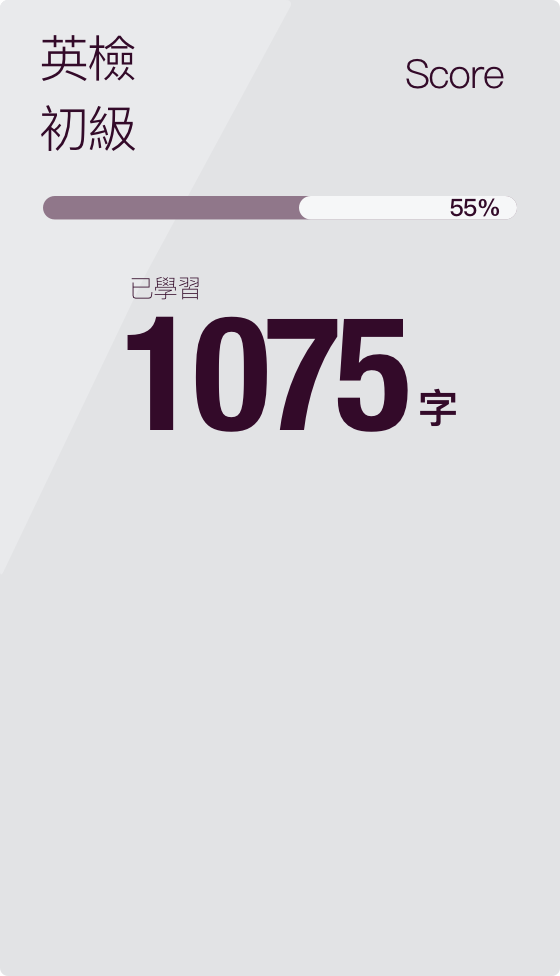
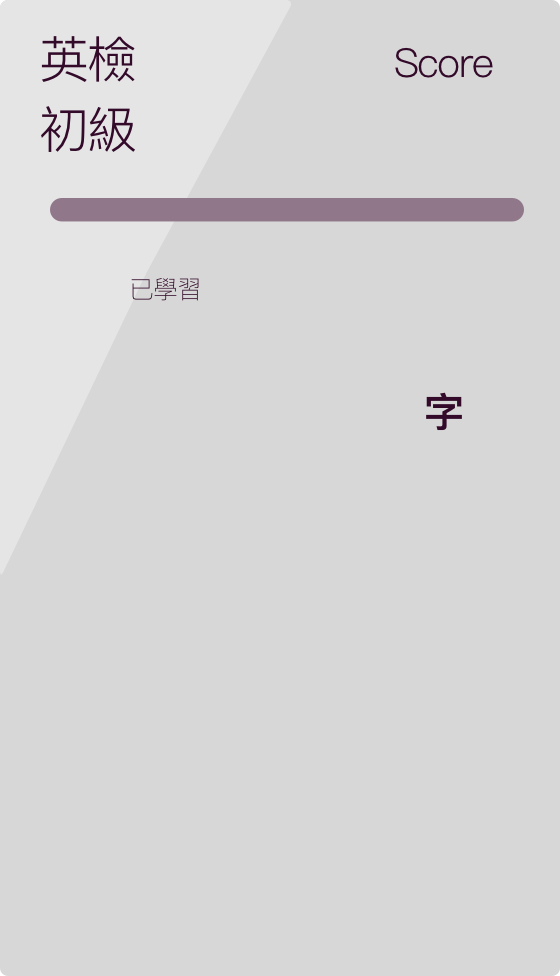
1. layout到gameScene一半

diff --git a/wordDrug/newGameVc/NewGameViewController.swift b/wordDrug/newGameVc/NewGameViewController.swift
@@ -142,6 +142,7 @@ class NewGameViewController: UIViewController, SFSpeechRecognizerDelegate, TagLi
     var thirdEngWordText = String()
     var isParseEnabled = true
     
+    @IBOutlet weak var wordCountLabel: UILabel!
     
     let word1Label = UILabel()
     let word2Label = UILabel()
@@ -153,7 +154,7 @@ class NewGameViewController: UIViewController, SFSpeechRecognizerDelegate, TagLi
     
     var isCelebratingMapPassed = false
     
-    @IBOutlet weak var talkCircle: UIView!
+    //@IBOutlet weak var talkCircle: UIView!
     
     //用來顯示正確答案的變數, 保留標點符號大小寫
     var completeWordsToShow = String()
@@ -161,6 +162,11 @@ class NewGameViewController: UIViewController, SFSpeechRecognizerDelegate, TagLi
     
     //錄音動畫
     var recordingIndicator:NVActivityIndicatorView?
+    
+    
+    let width = UIScreen.main.bounds.width
+    let height = UIScreen.main.bounds.height
+    
     
     //紀錄錯誤發音字
     let relevantWords:[[String:[String]]] = [["and":["n","end","in"]], ["ant":["aunt", "and"]], ["ham":["pam"]], ["bake":["bank"]], ["aim":["m", "am", "game", "i am"]], ["yam":["yeah", "I'm", "game"]], ["cause":["calls", "plus", "cost"]], ["pause":["paul's", "pose", "pass"]], ["be":["b", "bit", "been"]], ["bag":["back"]], ["bin":["pen", "been"]], ["as":["s"]], ["dawn":["don", "done"]], ["bit":["but", "beat"]], ["by":["bye", "buy"]], ["bomb":["mom"]], ["bond":["pond", "and on"]], ["crab":["crap", "cram"]], ["bee":["b", "bg", "be"]], ["employ":["i love ploy", "employee"]], ["sea":["c", "see", "sing"]], ["end":["and"]], ["hen":["hand", "ham"]], ["pet":["pat", "at"]], ["fog":["fuck"]], ["dew":["do you", "due"]], ["lift":["left"]], ["donkey":["thank u"]], ["fill":["feel"]], ["grade":["great"]], ["hill":["he'll"]], ["his":["yes", "he's"]], ["kid":["can't"]], ["lid":["lead", "let"]], ["igh1":["hi"]], ["miss":["mess", "bass"]], ["sir":["siri"]], ["ill":["io", "yell"]], ["lip":["that", "nap", "leap"]], ["leg":["lag"]], ["kneepad":["hey pat", "we pack"]], ["ring":["rain"]], ["ink":["inc."]], ["pin":["pain"]], ["did":["dead", "dig"]], ["dig":["dick"]], ["rhino":["right now"]], ["mind":["mine"]], ["bone":["born"]], ["tone":["porn"]], ["omit":["almonds", "almond"]], ["of":["off"]], ["offspring":["of spring"]], ["old":["owed"]], ["bow":["wow"]], ["sin":["send", "seen"]], ["red":["read", "rat"]], ["pig":["pick"]], ["very":["barry"]], ["carry":["carrie"]], ["skill":["scale"]], ["tick":["take"]], ["tin":["10", "ten", "teen"]], ["fifty":["50"]], ["sixty":["60"]], ["to":["2"]], ["rub":["rob"]], ["bun":["bon"]], ["gun":["gone"]], ["cup":["prop"]], ["dumb":["dom"]], ["gain":["can", "game", "dan"]], ["nut":["not", "nuts", "that's"]], ["surf":["sorry", "serve"]], ["sad":["said"]], ["accept":["a sept", "except"]], ["principle":["principal"]], ["atom":["adam", "at tom", "at ten", "at them"]], ["far":["fart"]], ["seesaw":["cecil"]], ["mat":["matt"]], ["may":["mei", "main"]], ["gram":["graham"]], ["pan":["pam"]], ["behave":["behalf", "we have"]], ["mass":["mas"]], ["haunted":["hunted"]], ["lack":["leg"]], ["niece":["nice"]], ["column":["caller"]], ["colleague":["cardi"]], ["wet":["what"]], ["media":["pedia"]], ["done":["don"]], ["dry":["trying"]], ["bean":["being", "been"]], ["tea":["t", "tee"]], ["pen":["pam", "pan"]], ["lend":["land"]], ["sight":["site"]], ["hit":["hits"]], ["goal":["call"]], ["loaf":["love"]], ["sing":["seen"]], ["thing":["fin"]], ["will":["we'll"]], ["till":["teal"]], ["mill":["mail", "male", "meal"]], ["wing":["wayne"]], ["among":["a man"]], ["iron":["i am"]], ["neon":["young"]], ["ours":["hours"]], ["pot":["part"]], ["born":["porn"]], ["door":["don't worry", "dori"]], ["cow":["cal"]], ["town":["towel"]], ["prize":["price"]], ["marry":["merry"]], ["both":["bath"]], ["sun":["son"]], ["hide":["height", "hi"]], ["due":["do you"]], ["June":["john"]], ["rule":["drool"]], ["rude":["dude"]], ["gesture":["chester", "just trailer"]], ["eighty":["80"]], ["thumb":["foam"]], ["ketchup":["catch up"]], ["main":["man", "mane"]], ["band":["and"]], ["ladder":["leather"]], ["daddy":["that he"]], ["whale":["well", "we'll"]], ["burst":["first"]], ["lamb":["let", "land"]], ["climate":["climb at"]], ["piece":["peace"]], ["place":["please"]], ["rat":["got", "rhett"]], ["battle":["that'll"]], ["drawer":["droller"]], ["autumn":["i'll touch", "alton"]], ["way":["we"]], ["liter":["litter"]], ["ten":["pam", "can", "tin", "10"]], ["tent":["pant"]], ["deer":["beer", "dear"]], ["grey":["gray"]], ["obey":["i'll be"]], ["bucket":["buckets"]], ["tempo":["temple"]], ["nose":["knows"]], ["role":["roll", "raw"]], ["hire":["higher"]], ["thirty":["30"]], ["bowling":["morning"]], ["ceiling":["sitting"]], ["fork":["fort"]], ["form":["foreign"]], ["more":["morning"]], ["fool":["for"]], ["aloud":["allowed"]], ["parrot":["pirate"]], ["ninety":["nighty", "90"]], ["quiz":["chris"]], ["path":["pat"]], ["than":["then", "van"]], ["shoe":["she'll", "sure"]], ["gate":["kate"]], ["hate":["eight"]], ["hang":["hannah"]], ["sand":["send"]], ["admire":["at the meyer", "edmeyer"]], ["advise":["advice"]], ["whole":["call"]], ["whose":["who's", "who is"]], ["wheel":["we'll", "we"]], ["tall":["call", "paul"]], ["pair":["prayer"]], ["ease":["is"]], ["crayon":["korean"]], ["dock":["talk"]], ["faucet":["fossett"]], ["itself":["it's self"]], ["race":["raise"]], ["knight":["night"]], ["rose":["roast"]], ["toad":["told"]], ["fond":["found"]], ["monk":["monarch", "month"]], ["noon":["no"]], ["move":["movie"]], ["foul":["fall"]], ["bounce":["taos"]], ["male":["mail"]], ["shut":["shot"]], ["bathe":["beef"]], ["badminton":["that minton"]], ["naughty":["knotty"]], ["granddaughter":["when dollar"]], ["twice":["pies"]], ["sail":["sale"]], ["tail":["pale"]], ["star":["*", "start"]], ["dial":["i'll", "kyle"]], ["thin":["then"]], ["maximum":["messy mom"]], ["knee":["me"]], ["owner":["almost there", "on their"]], ["sell":["sale", "cell"]], ["leaf":["leave"]], ["flour":["flower"]], ["root":["route"]], ["bowl":["ball"]], ["grow":["grill", "roll"]], ["railroad":["rail road"]], ["raincoat":["wrinkled"]], ["mole":["ball", "more"]], ["hose":["house", "holes"]], ["word":["where"]], ["wedding":["waiting"]], ["thirtieth":["30th"]], ["twirl":["pearl"]], ["ego":["eagle"]], ["name":["ma'am"]], ["ninth":["knife"]], ["shall":["sure", "scholl"]], ["six":["6"]], ["curtain":["carton"]], ["lead":["bead"]], ["angel":["angil"]], ["need":["me"]], ["seem":["seeing", "same"]], ["pound":["pilot", "now"]], ["forty":["40"]], ["room":["ram"]], ["soon":["so in", "sean"]], ["ride":["right"]], ["rise":["lies", "rice"]], ["low":["no", "loel"]], ["own":["on", "all"]], ["know":["no"]], ["ruler":["reuther"]], ["their":["there"]], ["pale":["pio"]], ["race":["raise"]], ["plain":["plane"]], ["raise":["race"]], ["buy":["bye"]], ["garden":["pardon"]], ["kilogram":["program"]], ["necklace":["nicolas"]], ["seek":["see"]], ["tool":["cool", "pool"]], ["wood":["would"]], ["woods":["what's"]], ["gym":["jane", "james"]], ["north":["no wife"]], ["row":["roll", "raw"]], ["fence":["sence"]], ["deaf":["-", "def"]], ["tangerine":["thank you rain"]], ["beam":["boehm"]], ["cent":["sent"]], ["thick":["fake"]], ["thief":["fief"]], ["safe":["save"]], ["shine":["shall i"]], ["childish":["ciao dish"]], ["guard":["god"]], ["wife":["weiss"]], ["sting":["stain"]], ["yourselves":["your selves"]], ["invent":["event"]], ["since":["sence", "scenes"]], ["sincere":["since year"]], ["tear":["cheer"]], ["boost":["post"]], ["goose":["close"]], ["train":["chain", "friend"]], ["waist":["waste"]], ["stair":["stare"]], ["twelfth":["12th"]], ["cellphone":["cell phone"]], ["many":["manny"]], ["planner":["planer"]], ["passenger":["messenger"]], ["alike":["i like"]], ["alive":["i life", "a life"]], ["narrow":["nero", "natural"]], ["ground":["grounded", "grout"]], ["shore":["sure"]], ["spoon":["spohn", "splinter"]], ["crust":["quest"]], ["eleven":["11"]], ["were":["where"]], ["daredevil":["there devil"]], ["pillow":["pelo"]], ["chin":["chain"]], ["playground": ["play ground"]], ["write":["right"]], ["spend":["spand"]], ["yellow":["hello"]], ["still":["steel"]], ["tenth":["10", "10th"]], ["twenty":["20"]], ["restroom":["restaurant"]], ["eager":["either"]], ["omnipresent":["omni present"]], ["scan":["scam"]], ["dazzle":["diesel"]], ["armchair":["i'm chair", "arm chair"]], ["bed":["bad", "that"]], ["bedding":["heading"]], ["tailor":["paid her"]], ["debt":["that"]], ["doubtful":["duffel"]], ["amend":["amended"]], ["tailor":["tater", "taylor"]], ["cable":["table"]], ["careless":["care less"]], ["wheel":["we'll"]],["bitter":["peter"]], ["hear":["here"]], ["weary":["wearing"]], ["hobby":["abi"]], ["display":["let's play"]], ["dismiss":["this mess"]], ["cycle":["psycho"]], ["watermelon":["what a melon"]], ["laugh":["left"]], ["numb":["nom"]], ["bomb":["mom"]], ["comb":["calm"]], ["humid":["you meant"]], ["assign":["a sign"]], ["housework":["how's work"]], ["noun":["known"]], ["exist":["it's sixth"]], ["vest":["best"]], ["fist":["thirst"]], ["Walkman":["look man"]], ["strong":["stronger"]], ["lung":["lawn", "loan"]], ["calm":["come"]], ["foreign":["flooring", "forane"]], ["miner":["minor"]], ["microwave":["michael way"]], ["hound":["hi loved"]], ["mud":["martha"]], ["mudslide":["must light", "mud slide"]], ["meat":["meet"]], ["least":["beast"]], ["kettle":["cuddle"]], ["swan":["suong"]], ["carpet":["corporate"]], ["cartoon":["carton"]], ["balloon":["but when"]], ["fifteen":["15"]], ["fifteenth":["15th"]], ["yarn":["john"]], ["bookcase":["book case"]], ["manner":["mandor"]], ["clerk":["bonarck"]], ["think":["thank", "fin"]], ["fourteen":["14"]], ["fourteenth":["14th"]], ["shorten":["sorry"]], ["four":["fort", "4", "for"]], ["fancy":["thanks he"]], ["blanket":["blankets"]], ["desert":["dessert"]], ["kangaroo":["bangaru"]], ["sidewalk":["so i walk"]], ["nineteen":["19"]], ["nineteenth":["19th"]], ["boast":["post"]], ["platform":["my phone"]], ["kindergarten":["can you gotten"]], ["steal":["steel"]], ["stream":["straight"]], ["dozen":["doesn't", "does"]], ["decorate":["the correct"]], ["seventeen":["17"]], ["sleepover":["sleep over"]], ["wound":["warned"]], ["sixteen":["six team", "16"]], ["sixteenth":["16th"]], ["altogether":["i'll together"]], ["mourn":["morning"]], ["dough":["door"]], ["medal":["metal"]], ["alright":["all right"]], ["evening":["evelyn"]], ["gentleman":["gentelmen"]], ["meaning":["minute", "minden"]], ["honor":["partner"]], ["forehead":["for head"]], ["icecream":["ice cream"]], ["thirteen":["13"]], ["thirteenth":["13th"]], ["eighteen":["18"]], ["eighteenth":["18th"]], ["error":["eric"]], ["weekend":["we can", "we can't"]], ["oven":["arvin"]], ["river":["reverb"]], ["head":["had"]], ["seventy":["70"]], ["seventh":["7th"]], ["breath":["breast"]], ["breathe":["brief"]], ["brand":["brenda"]], ["bettor":["better"]], ["barn":["born"]], ["ban":["bam"]], ["concern":["concerned"]], ["wear":["where"]], ["whether":["weather"]], ["sweater":["sweeter"]], ["pear":["pair"]], ["sudden":["southern"]], ["bleed":["believed"]]]
@@ -175,6 +181,7 @@ class NewGameViewController: UIViewController, SFSpeechRecognizerDelegate, TagLi
        
         coverBg.image = UIImage(named:"coverBg.png")
         resultBg.image = UIImage(named:"resultBg.png")
+        
         coverBtn.isHidden = true
         coverBg.isHidden = true
         resultBg.isHidden = true
@@ -182,10 +189,70 @@ class NewGameViewController: UIViewController, SFSpeechRecognizerDelegate, TagLi
         secondWordBtn.isHidden = true
         thirdWordBtn.isHidden = true
         bigOkBtn.isHidden = true
-         bigOkBtn.setImage(UIImage(named:"bigOkBtn.png"), for: .normal)
+        bigOkBtn.setImage(UIImage(named:"bigOkBtn.png"), for: .normal)
         firstWordBtn.isEnabled = false
         secondWordBtn.isEnabled = false
         thirdWordBtn.isEnabled = false
+ 
+        
+        
+        
+        
+        var dif = CGFloat()
+        
+        switch  height {
+        case 812:
+
+            dif = 1.15
+        case 736:
+            
+            dif = 1.1
+            
+        case 667:
+            
+            dif = 1
+
+        case 568:
+            
+            dif = 0.9
+
+        default:
+            break
+            
+        }
+        
+        //layOut
+        
+        
+        resultBg.frame = CGRect(x: (width - 280 * dif) / 2, y: height / 8, width: 280 * dif, height: 488 * dif)
+        firstWordBtn.frame = CGRect(x: resultBg.frame.origin.x + ((resultBg.frame.width - (519 / 2 * dif)) / 2), y: resultBg.frame.midY - resultBg.frame.height / 20, width: 519 / 2 * dif, height: 57 * dif)
+
+        
+        secondWordBtn.frame = CGRect(x: firstWordBtn.frame.origin.x, y: firstWordBtn.frame.maxY +  15 * dif, width: firstWordBtn.frame.width, height: firstWordBtn.frame.height)
+        
+        
+        thirdWordBtn.frame = CGRect(x: firstWordBtn.frame.origin.x, y: secondWordBtn.frame.maxY + 15 * dif, width: firstWordBtn.frame.width, height: firstWordBtn.frame.height)
+        
+        
+        firstEngWord.frame = CGRect(x: firstWordBtn.frame.minX + 20 * dif, y: firstWordBtn.frame.minY + 12 * dif, width: 208 * dif, height: 35 * dif)
+        firstChiWord.frame = CGRect(x: firstWordBtn.frame.maxX - 89 * dif, y: firstWordBtn.frame.minY + 16 * dif, width: 69 * dif, height: 28 * dif)
+        
+        secondEngWord.frame = CGRect(x: firstWordBtn.frame.minX + 20 * dif, y: secondWordBtn.frame.minY + 12 * dif, width: 208 * dif, height: 35 * dif)
+        secondChiWord.frame = CGRect(x: firstWordBtn.frame.maxX - 89 * dif, y: secondWordBtn.frame.minY + 16 * dif, width: 69 * dif, height: 28 * dif)
+        
+        thirdEngWord.frame = CGRect(x: firstWordBtn.frame.minX + 20 * dif, y: thirdWordBtn.frame.minY + 12 * dif, width: 208 * dif, height: 35 * dif)
+        thirdChiWord.frame = CGRect(x: firstWordBtn.frame.maxX - 89 * dif, y: thirdWordBtn.frame.minY + 16 * dif, width: 69 * dif, height: 28 * dif)
+        
+        
+        bigOkBtn.frame = CGRect(x: resultBg.frame.minX + ((resultBg.frame.width - (210 * dif)) / 2), y: resultBg.frame.maxY - 40 * dif, width: 210 * dif, height: 29 * dif)
+        
+        
+        scoreLabel.frame = CGRect(x: resultBg.frame.maxX - 140 * dif, y: resultBg.frame.minY + 53 * dif, width: 106 * dif, height: 21 * dif)
+        
+        
+        wordCountLabel.frame = CGRect(x: resultBg.frame.minX + 50 * dif, y: resultBg.frame.minY + 140 * dif, width: 157 * dif, height: 95 * dif)
+        wordCountLabel.adjustsFontSizeToFitWidth = true
+        
         
         //做三個對話圓
      /*
@@ -233,7 +300,6 @@ class NewGameViewController: UIViewController, SFSpeechRecognizerDelegate, TagLi
             
         }
         
-   
         wordBtns.append(firstWordBtn)
         wordBtns.append(secondWordBtn)
         wordBtns.append(thirdWordBtn)

diff --git a/wordDrug/pageVc/PageViewController.swift b/wordDrug/pageVc/PageViewController.swift
@@ -65,6 +65,10 @@ class PageViewController: UIViewController,UIScrollViewDelegate{
     var syllableSets = [[String]()]
     
     
+    //螢幕長寬
+    let width = UIScreen.main.bounds.width
+    let height = UIScreen.main.bounds.height
+    
     //以下為各地圖的音節
     
     //***前三張地圖的第15行探索點syllable都是先亂打的.....之後要改變
@@ -181,10 +185,10 @@ class PageViewController: UIViewController,UIScrollViewDelegate{
         backBtn.frame = CGRect(x: width / 10, y: width / 10, width: 30, height: 45)
        
         leftBtn.frame = CGRect(x: width / 3.4, y: height - height / 14, width: 13, height: 20)
-        page0.frame = CGRect(x: leftBtn.frame.origin.x + width / 15, y: leftBtn.frame.origin.y - height / 100, width: 30, height: 30)
-        page1.frame = CGRect(x: leftBtn.frame.origin.x + width / 15 * 2, y: leftBtn.frame.origin.y - height / 100, width: 30, height: 30)
-        page2.frame = CGRect(x: leftBtn.frame.origin.x + width / 15 * 3, y: leftBtn.frame.origin.y - height / 100, width: 30, height: 30)
-        page3.frame = CGRect(x: leftBtn.frame.origin.x + width / 15 * 4, y: leftBtn.frame.origin.y - height / 100, width: 30, height: 30)
+        page0.frame = CGRect(x: leftBtn.frame.origin.x + width / 15, y: leftBtn.frame.origin.y - height / 110, width: 30, height: 30)
+        page1.frame = CGRect(x: leftBtn.frame.origin.x + width / 15 * 2, y: leftBtn.frame.origin.y - height / 110, width: 30, height: 30)
+        page2.frame = CGRect(x: leftBtn.frame.origin.x + width / 15 * 3, y: leftBtn.frame.origin.y - height / 110, width: 30, height: 30)
+        page3.frame = CGRect(x: leftBtn.frame.origin.x + width / 15 * 4, y: leftBtn.frame.origin.y - height / 110, width: 30, height: 30)
         
         rightBtn.frame = CGRect(x: leftBtn.frame.origin.x + width / 15 * 5.7, y: leftBtn.frame.origin.y, width: 13, height: 20)
         
@@ -268,11 +272,7 @@ class PageViewController: UIViewController,UIScrollViewDelegate{
         
         //用過關數來判斷頁數
         
-        
-        
-        
-        
-        
+
     }
     
     
@@ -288,6 +288,8 @@ class PageViewController: UIViewController,UIScrollViewDelegate{
                 
             } else {
             //接收元素單位
+                
+                print(syllableReceived)
             for i in  0 ..< syllableSets[currentPage].count{
                 
                 //對比所選擇的元素
@@ -726,20 +728,23 @@ class PageViewController: UIViewController,UIScrollViewDelegate{
         }
         
         //在此決定已過關的球的顏色
-        var colors = [UIColor]()
+        var isEnlarge = [Bool]()
         var isHiddens = [Bool]()
         
         for _ in 0 ..< 10 {
             
-            colors.append(lightPurpleColor)
+            isEnlarge.append(true)
             isHiddens.append(true)
         }
+        
+        //紀錄最後一組字給bigBall顯示
+        let lastWordCount = pageSyllables.count - 1
         
         if pageSyllables.count > 0 {
         for i in 0 ..< pageSyllables.count  - 1{
             
                 
-                colors[i] = darkPurpleColor
+                isEnlarge[i] = false
                 
         }
         
@@ -762,21 +767,51 @@ class PageViewController: UIViewController,UIScrollViewDelegate{
 
         */
         
-  
+        var smallRadius = CGFloat()
+        var bigRadius = CGFloat()
         
-        ball0 = Node(text: pageSyllables[0], image: UIImage(), color: colors[0], radius: 35, name: pageNames[0],isHidden:isHiddens[0])
-        ball1 = Node(text: pageSyllables[1], image: UIImage(), color: colors[1], radius: 35, name: pageNames[1],isHidden:isHiddens[1])
-        ball2 = Node(text: pageSyllables[2], image: UIImage(), color: colors[2], radius: 35, name: pageNames[2],isHidden:isHiddens[2])
-        ball3 = Node(text: pageSyllables[3], image: UIImage(), color: colors[3], radius: 35, name: pageNames[3],isHidden:isHiddens[3])
-        ball4 = Node(text: pageSyllables[4], image: UIImage(), color: colors[4], radius: 35, name: pageNames[4],isHidden:isHiddens[4])
-        ball5 = Node(text: pageSyllables[5], image: UIImage(), color: colors[5], radius: 35, name: pageNames[5],isHidden:isHiddens[5])
-        ball6 = Node(text: pageSyllables[6], image: UIImage(), color: colors[6], radius: 35, name: pageNames[6],isHidden:isHiddens[6])
-        ball7 = Node(text: pageSyllables[7], image: UIImage(), color: colors[7], radius: 35, name: pageNames[7],isHidden:isHiddens[7])
-        ball8 = Node(text: pageSyllables[8], image: UIImage(), color: colors[8], radius: 35, name: pageNames[8],isHidden:isHiddens[8])
-        ball9 = Node(text: pageSyllables[9], image: UIImage(), color: colors[9], radius: 35, name: pageNames[9],isHidden:isHiddens[9])
+        
+        switch  height {
+        case 812:
+            smallRadius = 35
+            bigRadius = 100
+
+        case 736:
+
+            smallRadius = 35
+            bigRadius = 100
+
+            
+        case 667:
+            
+            smallRadius = 30
+            bigRadius = 90
+
+            
+        case 568:
+
+            smallRadius = 25
+            bigRadius = 80
+
+            
+        default:
+            break
+            
+        }
+        
+        
+        ball0 = Node(text: pageSyllables[0], image: UIImage(), color: darkPurpleColor, radius: smallRadius, name: pageNames[0],isHidden:isHiddens[0], isEnlarge: isEnlarge[0])
+        ball1 = Node(text: pageSyllables[1], image: UIImage(), color: darkPurpleColor, radius: smallRadius, name: pageNames[1],isHidden:isHiddens[1], isEnlarge: isEnlarge[1])
+        ball2 = Node(text: pageSyllables[2], image: UIImage(), color: darkPurpleColor, radius: smallRadius, name: pageNames[2],isHidden:isHiddens[2], isEnlarge: isEnlarge[2])
+        ball3 = Node(text: pageSyllables[3], image: UIImage(), color: darkPurpleColor, radius: smallRadius, name: pageNames[3],isHidden:isHiddens[3], isEnlarge: isEnlarge[3])
+        ball4 = Node(text: pageSyllables[4], image: UIImage(), color: darkPurpleColor, radius: smallRadius, name: pageNames[4],isHidden:isHiddens[4], isEnlarge: isEnlarge[4])
+        ball5 = Node(text: pageSyllables[5], image: UIImage(), color: darkPurpleColor, radius: smallRadius, name: pageNames[5],isHidden:isHiddens[5], isEnlarge: isEnlarge[5])
+        ball6 = Node(text: pageSyllables[6], image: UIImage(), color: darkPurpleColor, radius: smallRadius, name: pageNames[6],isHidden:isHiddens[6], isEnlarge: isEnlarge[6])
+        ball7 = Node(text: pageSyllables[7], image: UIImage(), color: darkPurpleColor, radius: smallRadius, name: pageNames[7],isHidden:isHiddens[7], isEnlarge: isEnlarge[7])
+        ball8 = Node(text: pageSyllables[8], image: UIImage(), color: darkPurpleColor, radius: smallRadius, name: pageNames[8],isHidden:isHiddens[8], isEnlarge: isEnlarge[8])
+        ball9 = Node(text: pageSyllables[9], image: UIImage(), color: darkPurpleColor, radius: smallRadius, name: pageNames[9],isHidden:isHiddens[9], isEnlarge: isEnlarge[9])
  
-        
-        
+  
         //集合所有的球
         /*
         balls.append(ball0)
@@ -838,9 +873,23 @@ class PageViewController: UIViewController,UIScrollViewDelegate{
 */
         
         //做大球並隱藏
-        bigBall = Node(text: "", image: UIImage(), color: lightPurpleColor, radius: 100, name: "bigBall", isHidden:true)
+       // bigBall = Node(text: pageSyllables[lastWordCount], image: UIImage(), color: lightPurpleColor, radius: 100, name: "bigBall", isHidden:false, isEnlarge:false)
+       
+        let label = SKLabelNode()
+        label.name = "bigBallLabel"
+        label.text = pageSyllables[lastWordCount]
+        label.fontName = "Helvetica Bold"
+        label.fontSize = 50
+        label.fontColor = .white
+        label.position = CGPoint(x: 0, y: -20)
+        
+        
+        
+        bigBall = Node(text: "", image: UIImage(), color: lightPurpleColor, radius: bigRadius, name: "bigBall", isHidden:false, isEnlarge:false)
         //bigBall.isHidden = true
+        bigBall.addChild(label)
         magnetic!.addChild(bigBall)
+        
         
         magnetic!.addChild(ball0)
         magnetic!.addChild(ball1)
@@ -887,10 +936,14 @@ class PageViewController: UIViewController,UIScrollViewDelegate{
     
 }
 
+
+
 extension PageViewController: MagneticDelegate {
     
     func magnetic(_ magnetic: Magnetic, didSelect node: Node) {
         print("didSelect -> \(node)")
+        
+        
     }
     
     func magnetic(_ magnetic: Magnetic, didDeselect node: Node) {
